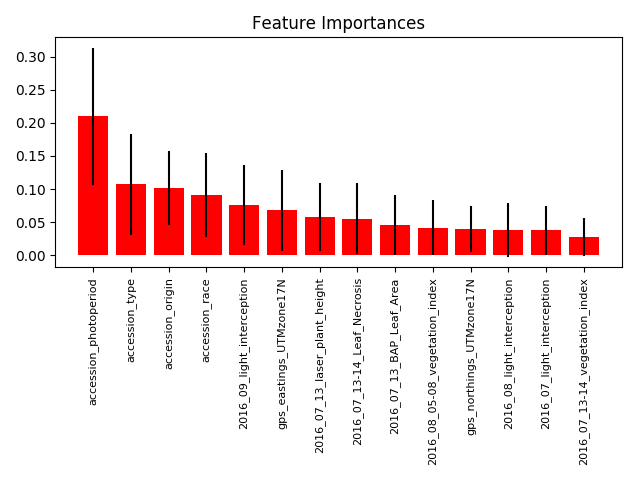
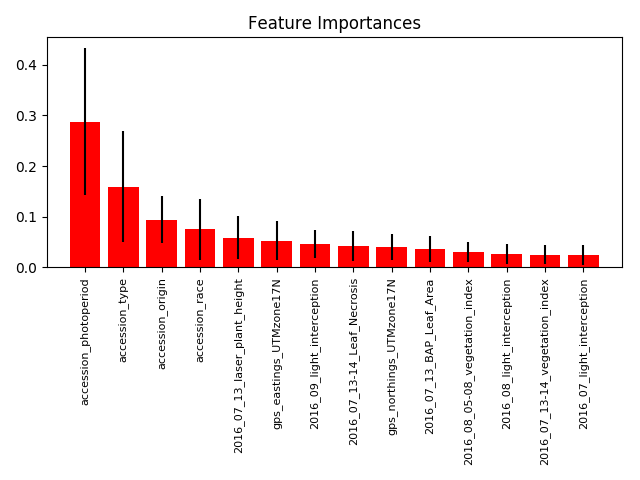
Fix filtering for 2016.

diff --git a/dataset.py b/dataset.py
@@ -66,7 +66,8 @@ class Dataset(object):
     y = []
     for sample in self._samples:
       output = output_generator(sample)
-      if is_missing(output):
+      # TODO fix this for 2014 Dataset that only has a single output.
+      if any(is_missing(x) for x in output):
         # Ignore samples with missing output value.
         continue
 
